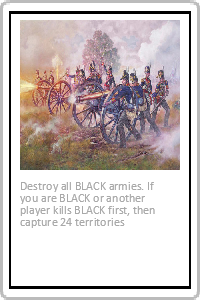
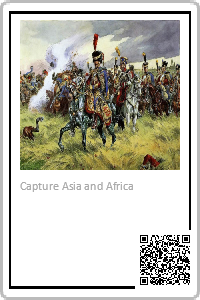
With QR image and fixed weird image decode on napoleonic2.jpg by just using a png

diff --git a/RiskService/CardCreator.cs b/RiskService/CardCreator.cs
@@ -13,6 +13,7 @@ namespace RiskService
 		private int cardHeight = 300;
 		private int cardWidth = 200;
 		private int cardTextWidth = 30;
+		private string qrCode = "QRLink.png";
 
         public byte[] getFileBytes(string loadFile)
         {
@@ -45,13 +46,15 @@ namespace RiskService
 
 			SKBitmap cardBitmap = getSkiaImage(baseCard);
 			SKBitmap missionBitmap = getSkiaImage(missionCard);
+			SKBitmap qrlinkBitmap = getSkiaImage(qrCode);
 
 			SKSurface drawSurface = SKSurface.Create(new SKImageInfo(cardWidth, cardHeight));
 			SKCanvas drawCanvas = drawSurface.Canvas;
 			drawCanvas.Clear(SKColors.Transparent);
 
 			drawCanvas.DrawImage(SKImage.FromBitmap(cardBitmap), SKRect.Create(0, 0, cardWidth, cardHeight));
-			drawCanvas.DrawImage(SKImage.FromBitmap(missionBitmap), SKRect.Create(20, 20, cardWidth-40, cardHeight/2));
+			drawCanvas.DrawImage(SKImage.FromBitmap(missionBitmap), SKRect.Create(20, 20, cardWidth-40, (cardHeight/2)));
+			drawCanvas.DrawImage(SKImage.FromBitmap(qrlinkBitmap), SKRect.Create(cardWidth-65, cardHeight-70, 60, 60));
 
 			int textWidth = 0, textHeight = 0;
 			string longestText = "";
@@ -63,7 +66,7 @@ namespace RiskService
 			byte[] missionBytes = missionPNG.ToArray();
 
 			#if DEBUG
-				using (var filestream = File.OpenWrite("debug.png"))
+			using (var filestream = File.OpenWrite("debug.png"))
 				{
 				missionPNG.SaveTo(filestream);
 				}

diff --git a/RiskService/Controllers/MissionsController.cs b/RiskService/Controllers/MissionsController.cs
@@ -35,7 +35,7 @@ namespace RiskService.Controllers
 
         private static readonly string[] CardImages = new[]
         {
-            "Napoleon2.jpg",
+            "Napoleon2.png",
             "Wellington2.jpg",
             "RedCoats2.jpg",
             "Infantry2.jpg",
